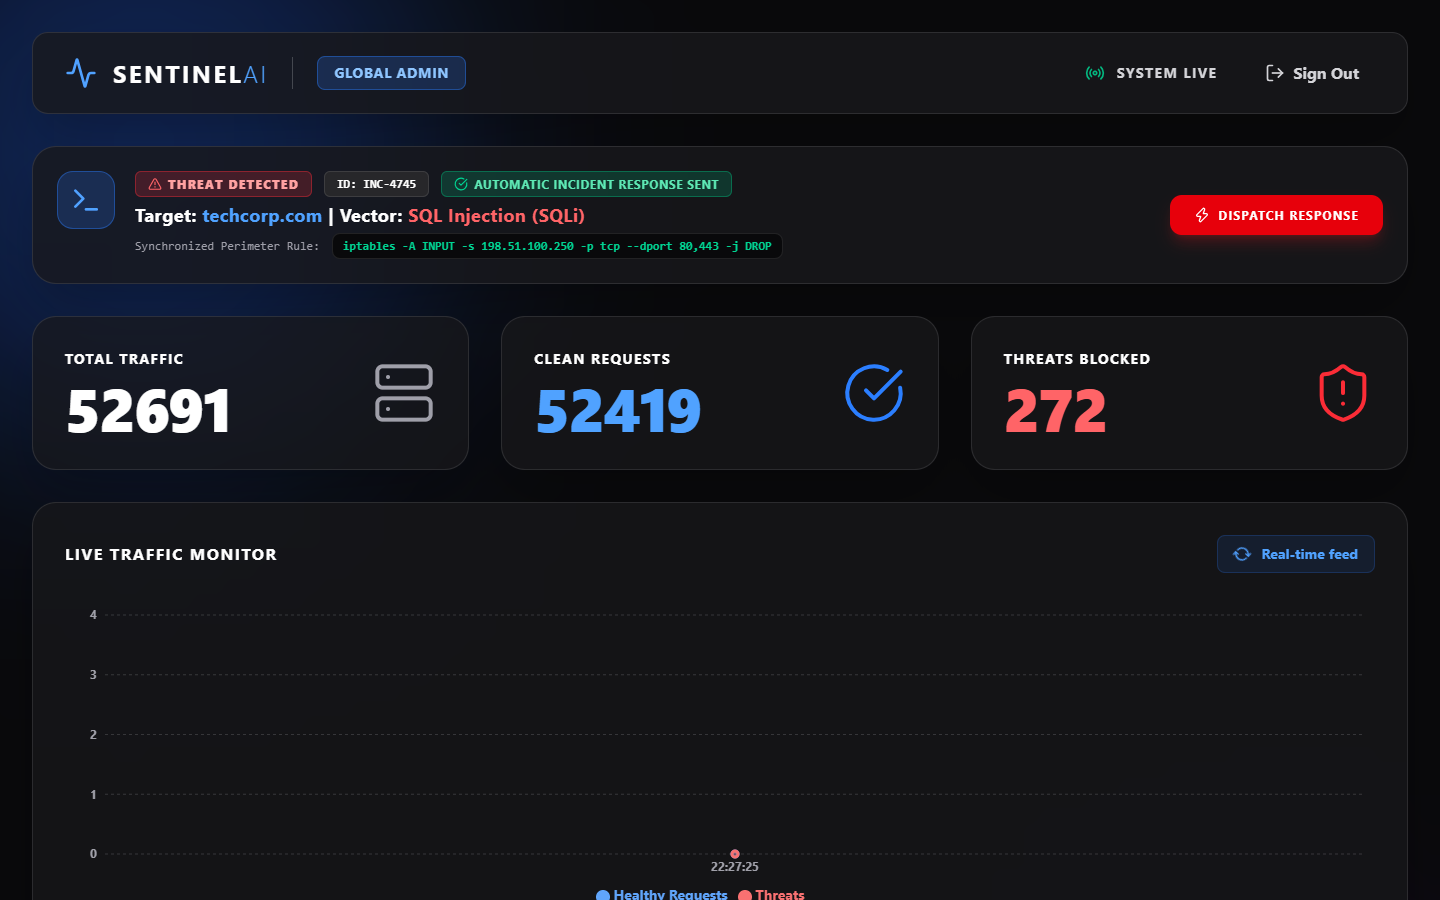
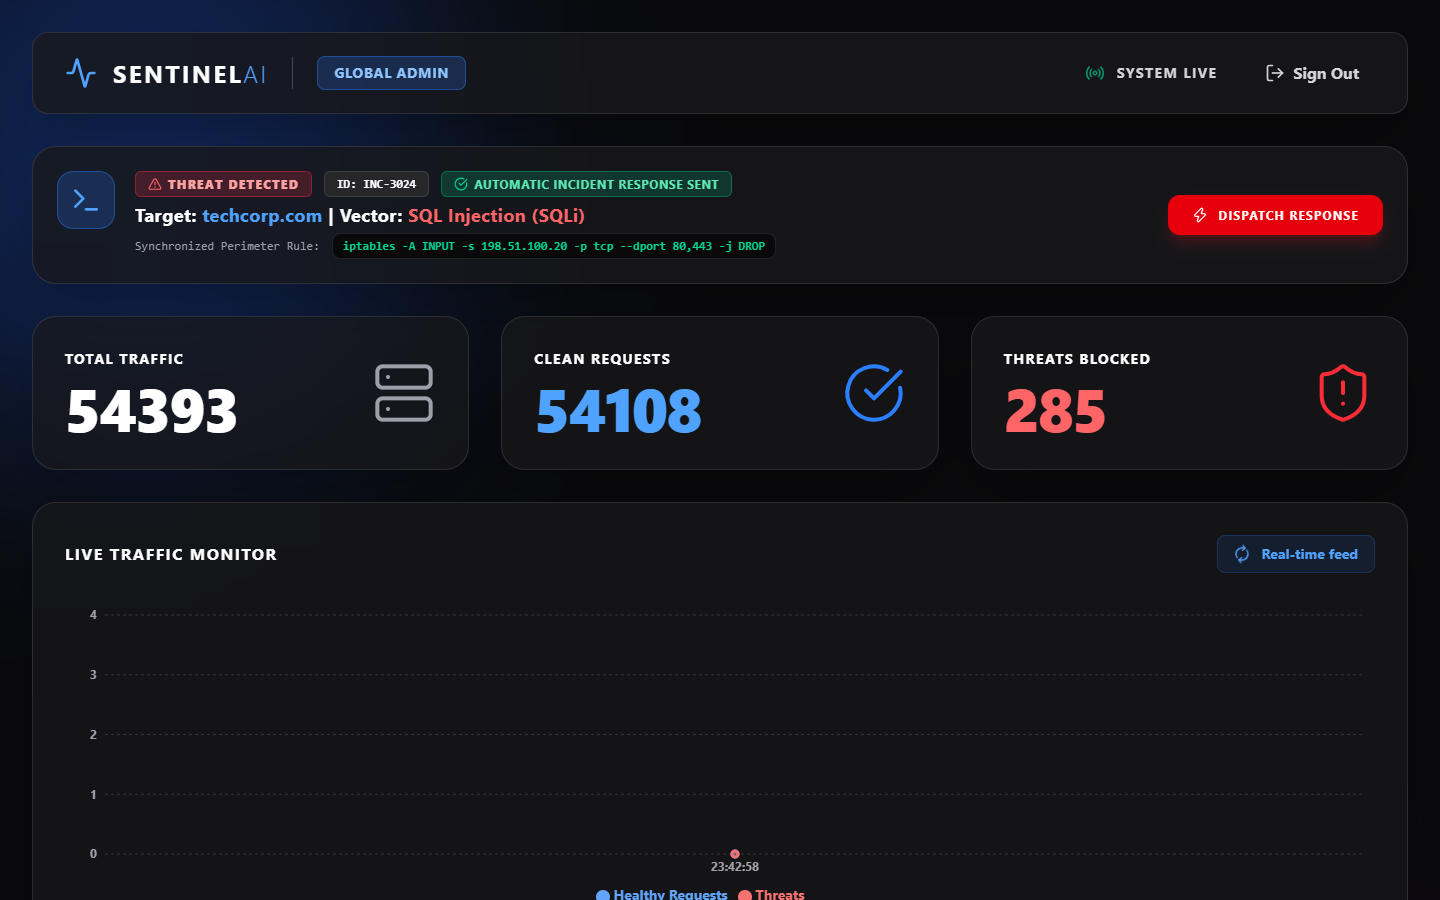
feat(ui): lighten dispatch button and show active status indicator after incident dispatch

diff --git a/frontend/src/pages/Dashboard.jsx b/frontend/src/pages/Dashboard.jsx
@@ -17,6 +17,7 @@ const Dashboard = () => {
   const [triggeringIncident, setTriggeringIncident] = useState(false);
   const [incidentDispatchedNotice, setIncidentDispatchedNotice] = useState("");
   const [dismissedAlertId, setDismissedAlertId] = useState(null);
+  const [isDispatched, setIsDispatched] = useState(false);
   
   // Time-series data for the moving graph
   const [timeSeries, setTimeSeries] = useState([]);
@@ -163,6 +164,7 @@ const Dashboard = () => {
       setIncidentDispatchedNotice(
         `Dispatched ${res.incident_code} to ${res.target_domain} - Automated Mitigation Deployed!`
       );
+      setIsDispatched(true);
       
       // Update local state immediately for instant visual feedback
       if (data && data.role === 'PROVIDER') {
@@ -381,10 +383,34 @@ const Dashboard = () => {
                 <button
                   onClick={handleTriggerIncident}
                   disabled={triggeringIncident}
-                  className="px-6 py-3 bg-red-600 hover:bg-red-500 disabled:bg-zinc-700 text-white text-xs font-bold uppercase tracking-widest rounded-xl transition-all shadow-lg shadow-red-900/50 flex items-center gap-2 cursor-pointer w-full sm:w-auto justify-center"
+                  className={`px-6 py-3 text-xs font-bold uppercase tracking-widest rounded-xl transition-all flex items-center gap-2.5 cursor-pointer w-full sm:w-auto justify-center ${
+                    isDispatched
+                      ? "bg-emerald-500/15 hover:bg-emerald-500/25 text-emerald-300 border border-emerald-500/40 shadow-[0_0_15px_rgba(16,185,129,0.15)]"
+                      : triggeringIncident
+                      ? "bg-red-800 text-white/80 border border-red-700/50 cursor-wait"
+                      : "bg-red-600 hover:bg-red-500 text-white shadow-lg shadow-red-900/50"
+                  }`}
                 >
-                  <Zap className={`w-4 h-4 ${triggeringIncident ? 'animate-spin' : ''}`} />
-                  {triggeringIncident ? "Dispatching Response..." : "Dispatch Response"}
+                  {isDispatched ? (
+                    <>
+                      <span className="relative flex h-2 w-2">
+                        <span className="animate-ping absolute inline-flex h-full w-full rounded-full bg-emerald-400 opacity-75"></span>
+                        <span className="relative inline-flex rounded-full h-2 w-2 bg-emerald-500"></span>
+                      </span>
+                      <CheckCircle className="w-4 h-4 text-emerald-400" />
+                      <span>Response Dispatched</span>
+                    </>
+                  ) : triggeringIncident ? (
+                    <>
+                      <Zap className="w-4 h-4 animate-spin text-white" />
+                      <span>Dispatching Response...</span>
+                    </>
+                  ) : (
+                    <>
+                      <Zap className="w-4 h-4 text-white" />
+                      <span>Dispatch Response</span>
+                    </>
+                  )}
                 </button>
               </div>
 
